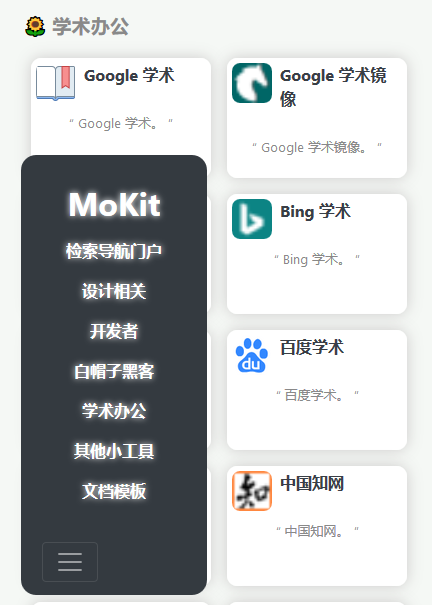
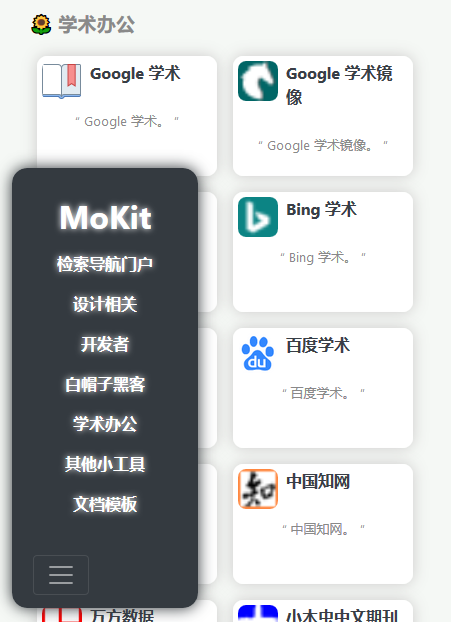
添加悬浮菜单阴影

diff --git a/src/css/fly.css b/src/css/fly.css
@@ -2,10 +2,11 @@
 #fly {
     position: fixed;
     display: none;
-    bottom: 30px;
-    left: 30px;
+    bottom: 15px;
+    left: 15px;
     border: solid 5px #343A40;
     border-radius: 15px;
+    box-shadow: 0 0 15px rgb(45, 50, 54);
 }
 
 #fly-item a {
